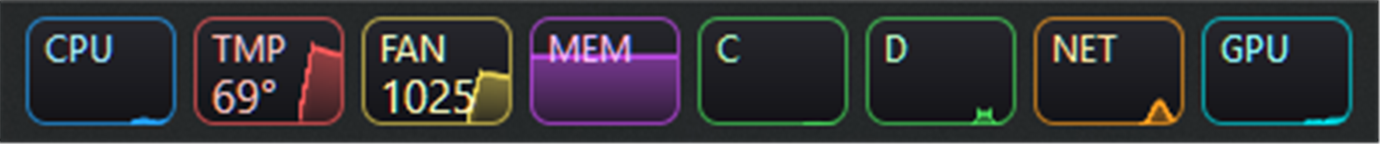
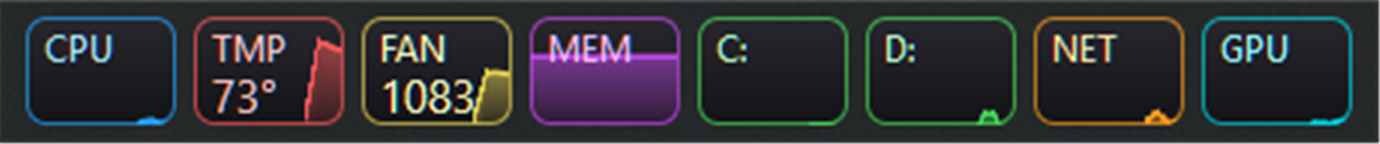
Label drives as C: and D:

diff --git a/src/main.rs b/src/main.rs
@@ -48,7 +48,7 @@ const K_DD: usize = 5;
 const K_NET: usize = 6;
 const K_GPU: usize = 7;
 
-const LABELS: [&[u8]; N] = [b"CPU", b"TMP", b"FAN", b"MEM", b"C", b"D", b"NET", b"GPU"];
+const LABELS: [&[u8]; N] = [b"CPU", b"TMP", b"FAN", b"MEM", b"C:", b"D:", b"NET", b"GPU"];
 // Task-Manager-like accent colours.
 const COLORS: [(u32, u32, u32); N] = [
     (36, 165, 255),  // CPU  blue
